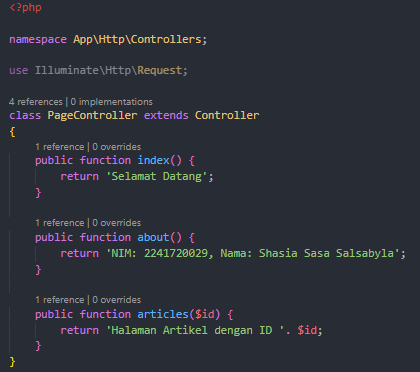
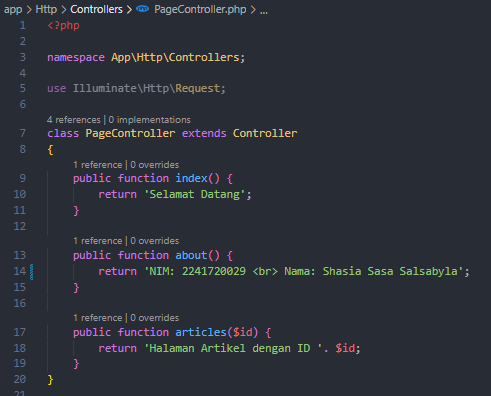
update [jobsheet 2]

diff --git a/routes/web.php b/routes/web.php
@@ -9,75 +9,88 @@ use App\Http\Controllers\ArticleController;
 use App\Http\Controllers\PhotoController;
 
 
-// /*
-// |--------------------------------------------------------------------------
-// | Web Routes
-// |--------------------------------------------------------------------------
-// |
-// | Here is where you can register web routes for your application. These
-// | routes are loaded by the RouteServiceProvider and all of them will
-// | be assigned to the "web" middleware group. Make something great!
-// |
-// */
+/*
+|--------------------------------------------------------------------------
+| Web Routes
+|--------------------------------------------------------------------------
+|
+| Here is where you can register web routes for your application. These
+| routes are loaded by the RouteServiceProvider and all of them will
+| be assigned to the "web" middleware group. Make something great!
+|
+*/
 
-// Route::get('/', function () {
-//     return view('welcome');
-// });
+//Basic Routing
+Route::get('/hello', function () {
+    return 'Hello World';
+});
 
-// Route::get('/hello', function () {
-//  return 'Hello World';
-// });
-
-// Route::get('/world', function () {
-//     return 'World';
-//    });
+Route::get('/world', function () {
+    return 'World';
+});
    
-// Route::get('/', function () {
-//     return view('Selamat Datang');
-// });
+Route::get('/', function () {
+    return view('Selamat Datang');
+});
 
-// Route::get('/about', function () {
-//     return 'NIM: 2241720029, Nama: Shasia Sasa Salsabyla';
-// });
+Route::get('/about', function () {
+    return 'NIM: 2241720029, <br> Nama: Shasia Sasa Salsabyla';
+});
 
-// Route::get('/user/{name}', function ($name) {
-//     return 'Nama saya '.$name;
-// });
+//Route Parameters
+Route::get('/user/{name}', function ($name) {
+    return 'Nama saya '.$name;
+});
 
-// Route::get('/posts/{post}/comments/{comment}', function ($postId, $commentId) {
-//     return 'Pos ke-'.$postId." Komentar ke-: ".$commentId;
-// });
+Route::get('/posts/{post}/comments/{comment}', function ($postId, $commentId) {
+    return 'Pos ke-'.$postId." Komentar ke-: ".$commentId;
+});
 
-// Route::get('/articles/{id}', function ($id) {
-//     return 'Halaman Artikel dengan ID '.$id;
-// });
+Route::get('/articles/{id}', function ($id) {
+    return 'Halaman Artikel dengan ID '.$id;
+});
 
-// Route::get('/user/{name?}', function ($name=null) {
-//     return 'Nama saya '.$name;
-// });
+//Optional Parameters
 
-// Route::get('/user/{name?}', function ($name='John') {
-//     return 'Nama saya '.$name;
-// });
+Route::get('/user/{name?}', function ($name=null) {
+    return 'Nama saya '.$name;
+});
 
-// Route::get('/hello', [WelcomeController::class,'hello']);
+Route::get('/user/{name?}', function ($name='John') {
+    return 'Nama saya '.$name;
+});
 
-// Route::get('/', [PageController::class,'index']);
-// Route::get('/about', [PageController::class, 'about']);
-// Route::get('/articles/{id}', [PageController::class, 'articles']);
+//Controller
+Route::get('/hello', [WelcomeController::class,'hello']);
+
+Route::get('/', [PageController::class,'index']);
+Route::get('/about', [PageController::class, 'about']);
+Route::get('/articles/{id}', [PageController::class, 'articles']);
 
 Route::get('/', [HomeController::class,'index']);
 Route::get('/about', [AboutController::class,'about']);
 Route::get('/articles/{id}', [ArticleController::class,'articles']);
 
-// Route::resource('photos', PhotoController::class);
+//Resource Controller
+Route::resource('photos', PhotoController::class);
 
-// Route::get('/greeting', function () {
-//     return view('hello', ['name' => 'Shasia']);
-// });
+Route::resource('photos', PhotoController::class)->only([
+    'index', 'show'
+]);
 
-// Route::get('/greeting', function () {
-//     return view('blog.hello', ['name' => 'Shasia']);
-// });
+Route::resource('photos', PhotoController::class)->except([
+    'create', 'store', 'update', 'destroy'
+]);
 
-// Route::get('/greeting', [WelcomeController::class, 'greeting']);
+//View
+Route::get('/greeting', function () {
+    return view('hello', ['name' => 'Shasia']);
+});
+
+//View dalam direktori
+Route::get('/greeting', function () {
+    return view('blog.hello', ['name' => 'Shasia']);
+});
+
+//View dari Controller
+Route::get('/greeting', [WelcomeController::class, 'greeting']);

diff --git a/app/Http/Controllers/PageController.php b/app/Http/Controllers/PageController.php
@@ -11,7 +11,7 @@ class PageController extends Controller
     }
 
     public function about() {
-        return 'NIM: 2241720029, Nama: Shasia Sasa Salsabyla';
+        return 'NIM: 2241720029 <br> Nama: Shasia Sasa Salsabyla';
     }
 
     public function articles($id) {

diff --git a/app/Http/Controllers/AboutController.php b/app/Http/Controllers/AboutController.php
@@ -7,6 +7,6 @@ use Illuminate\Http\Request;
 class AboutController extends Controller
 {
     public function about() {
-        return 'NIM: 2241720029, Nama: Shasia Sasa Salsabyla';
+        return 'NIM: 2241720029 <br> Nama: Shasia Sasa Salsabyla';
     }
 }

diff --git a/app/Http/Controllers/WelcomeController.php b/app/Http/Controllers/WelcomeController.php
@@ -12,6 +12,6 @@ class WelcomeController extends Controller {
     public function greeting() {
         return view('blog.hello')
         ->with('name','Shasia')
-        ->with('occupation','Astronaut');
+        ->with('occupation','Student');
     }
 }

diff --git a/README.md b/README.md
@@ -6,19 +6,23 @@ No.Absen/NIM : 25/2241720029
 
 ## Basic Routing
 
-1. Route Hello \
-   ![alt text](gambar/1.png) \
-    Halaman muncul tulisan Hello Word, sesuai dengan apa yang diketikkan di file web.php Route::get('/hello', function () { return 'Hello World'; });
+1.  Route Hello \
+    ![alt text](gambar/1.png) \
+     Halaman muncul tulisan Hello Word, sesuai dengan apa yang diketikkan di file web.php
 
-2. Route World \
-   ![alt text](gambar/2.png) \
-   Halaman menampilkan tulisan World sesuai dengan Route::get('/world', function () { return 'World'; });
+          Route::get('/hello', function () { return 'Hello World'; });
 
-3. Route Index\
-   ![alt text](gambar/3.png)
+2.  Route World \
+    ![alt text](gambar/2.png) \
+    Halaman menampilkan tulisan World sesuai dengan
 
-4. Route About \
-   ![alt text](gambar/4.png)
+          Route::get('/world', function () { return 'World'; });
+
+3.  Route Index\
+    ![alt text](gambar/3.png)
+
+4.  Route About \
+    ![alt text](gambar/4.png)
 
 ## Route Parameters
 
